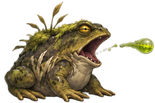
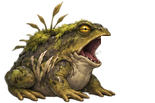
Marsh Toad spits poison: gulps, lobs a glob at where its target stands, and leaves a poison puddle
Claude-Session: https://claude.ai/code/session_01FdNBSjX3EpmvbacjATUpjx

Changed region(s): [[0.6452, 0.3495, 1.0, 0.5243], [0.6452, 0.3495, 0.7226, 0.4369]]

diff --git a/Assets/Scripts/Sim/World.cs b/Assets/Scripts/Sim/World.cs
@@ -86,6 +86,7 @@ namespace AshenVale
         {
             rimeCasts.Clear();
             brambles.Clear();
+            spits.Clear();
             players.Clear();
             events.Clear();
             foreach (var map in maps)
@@ -129,6 +130,7 @@ namespace AshenVale
                 if (!HasLivingPlayer(map.def.id)) continue;   // nobody here: the map waits, as it always has
                 UpdateMonsters(map, dt);
                 UpdateBrambles(map, dt);
+                UpdateSpits(map, dt);
                 UpdateShots(map, dt);
                 UpdateSpawning(map, dt);
             }
@@ -731,6 +733,7 @@ namespace AshenVale
 
                 if (d.boss) { UpdateBoss(map, m, target, dt); m.x = Mathf.Clamp(m.x, lo, hi); continue; }
                 if (SproutHeals(map, m, dt)) continue;
+                if (d.spits && Spits(map, m, target, dt)) continue;
                 if (m.knockbackTime > 0f)
                 {
                     float step = Mathf.Min(dt, m.knockbackTime);
@@ -905,6 +908,74 @@ namespace AshenVale
                     if (p.dead || p.map != map.def.id || p.immunity > 0f) continue;
                     if (Mathf.Abs(p.x - mark.x) > Tuning.BossEruptRadius || p.y < mark.y - .5f || p.y > mark.y + 1.6f) continue;
                     Hurt(map, p, mark.from, mark.damage);
+                }
+            }
+        }
+
+        // Poison in the air or pooled on the floor: `flight` counts down to the landing, then `life` to the puddle drying.
+        sealed class SpitGlob { public float x, y, flight, life; public int damage; public bool landed; public MonsterState from; }
+        readonly Dictionary<int, List<SpitGlob>> spits = new Dictionary<int, List<SpitGlob>>();
+
+        // A spitter with someone in range stops to gulp and lob (see Tuning.Spit*). True while it stands still for it.
+        bool Spits(MapRuntime map, MonsterState m, PlayerState target, float dt)
+        {
+            m.attackCooldown = Mathf.Max(0f, m.attackCooldown - dt);
+            if (m.windup > 0f)
+            {
+                if (m.knockbackTime > 0f) { m.windup = 0f; m.attackCooldown = Tuning.SpitEvery * .5f; return false; }   // hit mid-gulp: it swallows the shot
+                m.windup -= dt;
+                m.pose = 10;
+                if (m.windup > 0f) return true;
+                m.windup = 0f; m.strike = Tuning.SpitRecover;
+                List<SpitGlob> list;
+                if (!spits.TryGetValue(map.def.id, out list)) spits[map.def.id] = list = new List<SpitGlob>();
+                list.Add(new SpitGlob { x = m.spitX, y = m.y, flight = Tuning.SpitFlight, life = Tuning.PuddleTime, damage = m.Def.damage, from = m });
+                events.Add(new SimEvent { kind = SimEventKind.PoisonSpit, map = map.def.id, targetId = m.id, x = m.x + m.facing * m.Def.width * .5f, y = m.y,
+                    amount = Mathf.RoundToInt(m.spitX * 100f), facing = m.facing });
+                return true;
+            }
+            if (m.strike > 0f)
+            {
+                m.strike = Mathf.Max(0f, m.strike - dt);
+                if (m.knockbackTime > 0f) { m.strike = 0f; return false; }
+                m.pose = 11;
+                return true;
+            }
+            if (target == null || m.attackCooldown > 0f || m.knockbackTime > 0f) return false;
+            float dist = Mathf.Abs(target.x - m.x);
+            if (dist < Tuning.SpitMinRange || dist > Tuning.SpitMaxRange || Mathf.Abs(target.currentFloor - m.y) > Tuning.MonsterFloorTolerance) return false;
+            m.facing = target.x >= m.x ? 1 : -1;
+            m.windup = Tuning.SpitWindup; m.attackCooldown = Tuning.SpitEvery;
+            m.spitX = Mathf.Clamp(target.x, m.chaseLeft, m.chaseRight);     // aimed where they stand now: step aside and it misses
+            m.pose = 10;
+            return true;
+        }
+
+        void UpdateSpits(MapRuntime map, float dt)
+        {
+            List<SpitGlob> list;
+            if (!spits.TryGetValue(map.def.id, out list)) return;
+            for (int i = list.Count - 1; i >= 0; i--)
+            {
+                var g = list[i];
+                float radius, share;
+                if (!g.landed)
+                {
+                    g.flight -= dt;
+                    if (g.flight > 0f) continue;
+                    g.landed = true; radius = Tuning.SpitHitRadius; share = Tuning.SpitDamage;
+                }
+                else
+                {
+                    g.life -= dt;
+                    if (g.life <= 0f) { list.RemoveAt(i); continue; }
+                    radius = Tuning.PuddleRadius; share = Tuning.PuddleDamage;
+                }
+                foreach (var p in players)
+                {
+                    if (p.dead || p.map != map.def.id || p.immunity > 0f) continue;
+                    if (Mathf.Abs(p.x - g.x) > radius || p.y < g.y - .5f || p.y > g.y + (g.life < Tuning.PuddleTime ? .4f : 1.6f)) continue;
+                    Hurt(map, p, g.from, Mathf.Max(1, Mathf.RoundToInt(g.damage * share)));
                 }
             }
         }

diff --git a/Assets/Scripts/View/WorldView.Thornmother.cs b/Assets/Scripts/View/WorldView.Thornmother.cs
@@ -36,6 +36,8 @@ namespace AshenVale
                 case 7: anim = "break"; span = Tuning.BossRootTime; break;
                 case 8: anim = "heal"; loopRate = 8f; break;
                 case 9: anim = "attack"; span = Tuning.MonsterStrikeShow; break;      // any monster with attack frames
+                case 10: anim = "attack"; count = 2; span = Tuning.SpitWindup; break;            // a spitter gulping
+                case 11: anim = "attack"; from = 2; count = 2; span = Tuning.SpitRecover; break;  // mouth open, then settling
                 default: return null;
             }
             var frames = MonsterFrames(v.def, anim);
@@ -191,6 +193,60 @@ namespace AshenVale
             foreach (var w in thornWalls) Object.Destroy(w.go);
             foreach (var m in healMotes) Object.Destroy(m.go);
             bramblesShown.Clear(); thornWalls.Clear(); healMotes.Clear();
+            foreach (var s in spitsShown) Object.Destroy(s.go);
+            spitsShown.Clear();
+        }
+
+        // A spitter's poison (SimEventKind.PoisonSpit): the glob arcs from its mouth to the landing spot, then a puddle
+        // steams there until it dries. Timed from Tuning, like the sim.
+        const string SpitFx = "Art/Effects/marsh_toad/";
+        const float SpitMouth = .55f, SpitArc = 1.3f, SpitScale = 1.5f, PuddleFade = .6f;
+        sealed class Spit { public GameObject go; public SpriteRenderer sr; public float x0, x1, y, age; }
+        readonly List<Spit> spitsShown = new List<Spit>();
+
+        void SpawnSpit(SimEvent e)
+        {
+            GameObject go;
+            var sr = ThornSprite("Poison Spit", SlashOrder, out go);
+            spitsShown.Add(new Spit { go = go, sr = sr, x0 = e.x, x1 = e.amount / 100f, y = e.y });
+        }
+
+        void UpdateSpitFx(float dt)
+        {
+            var glob = Sprites.Art(SpitFx + "spit"); var puddle = Sprites.Art(SpitFx + "puddle");
+            for (int i = spitsShown.Count - 1; i >= 0; i--)
+            {
+                var s = spitsShown[i];
+                s.age += dt;
+                float pooled = s.age - Tuning.SpitFlight;
+                if (pooled >= Tuning.PuddleTime) { Object.Destroy(s.go); spitsShown.RemoveAt(i); continue; }
+                if (pooled < 0f)
+                {
+                    float t = s.age / Tuning.SpitFlight;
+                    float x = Mathf.Lerp(s.x0, s.x1, t), y = s.y + SpitMouth * (1f - t) + SpitArc * 4f * t * (1f - t);
+                    s.sr.sprite = glob;
+                    s.sr.flipX = s.x1 < s.x0;
+                    s.sr.color = Color.white;
+                    if (glob == null) continue;
+                    // Nose along its path: up off the lip, down into the mud.
+                    float rise = (SpitArc * 4f * (1f - 2f * t) - SpitMouth) / Mathf.Max(.5f, Mathf.Abs(s.x1 - s.x0));
+                    s.sr.transform.rotation = Quaternion.Euler(0f, 0f, Mathf.Atan(rise) * Mathf.Rad2Deg * (s.sr.flipX ? -1f : 1f));
+                    s.sr.transform.localScale = new Vector3(SpitScale, SpitScale, 1f);
+                    s.sr.transform.position = new Vector3(x, y, 0f) - s.sr.transform.rotation * (new Vector3(glob.bounds.center.x * (s.sr.flipX ? -1f : 1f), glob.bounds.center.y, 0f) * SpitScale);
+                }
+                else
+                {
+                    s.sr.flipX = false;
+                    s.sr.transform.rotation = Quaternion.identity;
+                    s.sr.sortingOrder = ThornGroundOrder;
+                    // Splashes out wide, then steams; thins away as it dries.
+                    float grow = Mathf.Clamp01(pooled / .15f);
+                    float scale = puddle != null ? Tuning.PuddleRadius * 2f / puddle.bounds.size.x * Mathf.Lerp(.4f, 1f, grow) : 1f;
+                    StandOn(s.sr, puddle, s.x1, s.y - .06f, scale);
+                    float fade = Mathf.Clamp01((Tuning.PuddleTime - pooled) / PuddleFade);
+                    s.sr.color = new Color(1f, 1f, 1f, fade * (.88f + .12f * Mathf.Sin(pooled * 7f)));
+                }
+            }
         }
     }
 }

diff --git a/Assets/Scripts/Sim/Entities.cs b/Assets/Scripts/Sim/Entities.cs
@@ -114,7 +114,7 @@ namespace AshenVale
         public float windup, strike, attackCooldown, summonCooldown;
         // What it is doing, for the view (sent to clients): 0 nothing, 1 slam windup, 2 slam strike, 3 summoning,
         // 4 calling an eruption, 5 rooting, 6 rooted, 7 breaking free, 8 (a sprout) healing its mother,
-        // 9 (any ordinary monster) striking a hero it has just touched.
+        // 9 (any ordinary monster) striking a hero it has just touched, 10 (a spitter) gulping, 11 spitting.
         public int pose;
         public int struck;              // the attack whose strike pose is showing
         public float eruptCooldown;
@@ -122,6 +122,7 @@ namespace AshenVale
         public int phase;
         public float phaseTime, rootHp, wallLeft, wallRight, wallTick;
         public float attackShow;        // ordinary monsters: time left of the strike pose after hurting a hero
+        public float spitX;             // spitters: where the glob being readied will land
         public float healClock;         // sprouts: until the next heal pulse; while positive after a pulse it stands still
         public MonsterDef Def { get { return Monsters.All[def]; } }
     }
@@ -150,7 +151,8 @@ namespace AshenVale
         BrambleWarn,        // thorns will erupt at (x, y) after Tuning.BossEruptWarn
         ThornWalls,         // walls rise at x (left) and amount / 100 (right) on floor y and creep inward
         ThornWallsEnd,      // they crumble
-        SproutHeal }        // a sprout at (x, y) sends healing to the monster with id `amount`
+        SproutHeal,         // a sprout at (x, y) sends healing to the monster with id `amount`
+        PoisonSpit }        // a glob leaves (x, floor y) for amount / 100 on that floor: Tuning.SpitFlight in the air, then a puddle for Tuning.PuddleTime
 
     // Something that happened during a tick, for the view (effects, sounds, numbers) and later for the network.
     public struct SimEvent

diff --git a/Assets/Scripts/Data/MonsterDefs.cs b/Assets/Scripts/Data/MonsterDefs.cs
@@ -26,6 +26,7 @@ namespace AshenVale
         public int xp;
         public int goldMin, goldRange;  // gold = goldMin + random(0 .. goldRange - 1)
         public bool aggressive, harmless;
+        public bool spits;              // lobs poison from range instead of only walking in (World.Spits)
         public float respawn = 8f;      // seconds before its spawn point fills again
         public float itemChance = -1f;  // chance of dropping gear (below 0: the usual Tuning.EquipmentDropChance)
         public int part = -1;           // the monster part it drops (Parts), -1 for none
@@ -111,6 +112,7 @@ namespace AshenVale
                 part = Parts.ShadeEssence },
             new MonsterDef { key = "marsh_toad", name = "Marsh Toad", level = 11, color = new Color(.45f, .58f, .33f),
                 width = 1f, height = .8f, hp = 290, speed = 1.2f, damage = 22, xp = 36, goldMin = 25, goldRange = 15,
+                spits = true,
                 part = Parts.ToadSlime },
             new MonsterDef { key = "bog_lurker", name = "Bog Lurker", level = 13, color = new Color(.3f, .42f, .4f),
                 width = 1.4f, height = 1.1f, hp = 360, speed = 1.6f, damage = 30, xp = 42, goldMin = 30, goldRange = 18,

diff --git a/Assets/Scripts/Core/Tuning.cs b/Assets/Scripts/Core/Tuning.cs
@@ -53,6 +53,12 @@ namespace AshenVale
         public const float PackStagger = 1.5f;              // seconds between pack members filling in
         public const float PackSpread = 2.5f;               // pack members land within this of the spawn point
         // Bosses
+        // Spitters (Marsh Toad): once it is after someone on its floor between SpitMinRange and SpitMaxRange away, it
+        // stops, gulps (SpitWindup; a hit in that time interrupts it) and lobs a glob at where they stood. The glob
+        // hurts on landing and leaves a puddle that hurts anyone standing in it.
+        public const float SpitMinRange = 2.2f, SpitMaxRange = 7f, SpitWindup = .55f, SpitFlight = .6f, SpitRecover = .3f;
+        public const float SpitEvery = 3.5f, SpitHitRadius = .65f, SpitDamage = 1f;
+        public const float PuddleRadius = .9f, PuddleTime = 4f, PuddleDamage = .4f;
         public const float MonsterStrikeShow = .4f;    // how long an ordinary monster holds its strike pose after a hit
         public const float BossLootChance = .5f;       // each hero's chance of the boss's own marked gear per kill
         public const float BossEpicChance = .2f;       // that gear is Epic this often, Rare otherwise

diff --git a/Assets/Scripts/Net/NetSession.cs b/Assets/Scripts/Net/NetSession.cs
@@ -336,7 +336,7 @@ namespace AshenVale
         {
             if (CurrentRole != Role.Host || !handlersRegistered) return;
             foreach (var e in world.events) if (e.kind == SimEventKind.Slash || e.kind == SimEventKind.BossSlam || e.kind == SimEventKind.DragonThrust || e.kind == SimEventKind.DragonFang || e.kind == SimEventKind.DragonFissure || e.kind == SimEventKind.DragonSweep || e.kind == SimEventKind.EmbermarksPickedUp || e.kind == SimEventKind.RimeBurst || e.kind == SimEventKind.RimeStorm || e.kind == SimEventKind.RimeTeleport || e.kind == SimEventKind.RangerRelease || e.kind == SimEventKind.HeroImpact || e.kind == SimEventKind.ItemDropped
-                || e.kind == SimEventKind.BrambleWarn || e.kind == SimEventKind.ThornWalls || e.kind == SimEventKind.ThornWallsEnd || e.kind == SimEventKind.SproutHeal) pendingEvents.Add(e);
+                || e.kind == SimEventKind.BrambleWarn || e.kind == SimEventKind.ThornWalls || e.kind == SimEventKind.ThornWallsEnd || e.kind == SimEventKind.SproutHeal || e.kind == SimEventKind.PoisonSpit) pendingEvents.Add(e);
             snapshotTimer += dt;
             characterTimer += dt;
             if (snapshotTimer >= SnapshotInterval)

diff --git a/Assets/Scripts/View/WorldView.cs b/Assets/Scripts/View/WorldView.cs
@@ -132,6 +132,7 @@ namespace AshenVale
             UpdateSlashes(frameDt);
             UpdateAttackFeedback(frameDt);
             UpdateThornFx(frameDt);
+            UpdateSpitFx(frameDt);
             UpdateLandingLeaves(frameDt);
             UpdateCamera(local, frameDt, alpha);
         }
@@ -174,6 +175,7 @@ namespace AshenVale
                 else if (e.kind == SimEventKind.DragonThrust || e.kind == SimEventKind.DragonFang || e.kind == SimEventKind.DragonFissure || e.kind == SimEventKind.DragonSweep) SpawnDragonFx(e);
                 else if (e.kind == SimEventKind.BossSlam) { SpawnSlamRing(e); GameSfx.Play("thorn_slam"); }
                 else if (e.kind == SimEventKind.BrambleWarn) SpawnBramble(e);
+                else if (e.kind == SimEventKind.PoisonSpit) SpawnSpit(e);
                 else if (e.kind == SimEventKind.ThornWalls) SpawnThornWalls(e);
                 else if (e.kind == SimEventKind.ThornWallsEnd) EndThornWalls();
                 else if (e.kind == SimEventKind.SproutHeal) SpawnHealMote(e);
